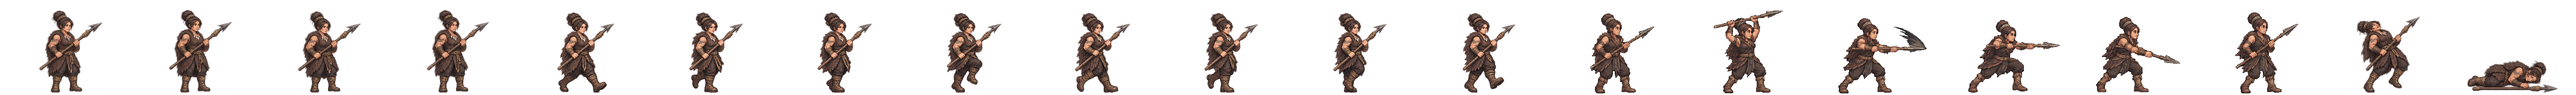
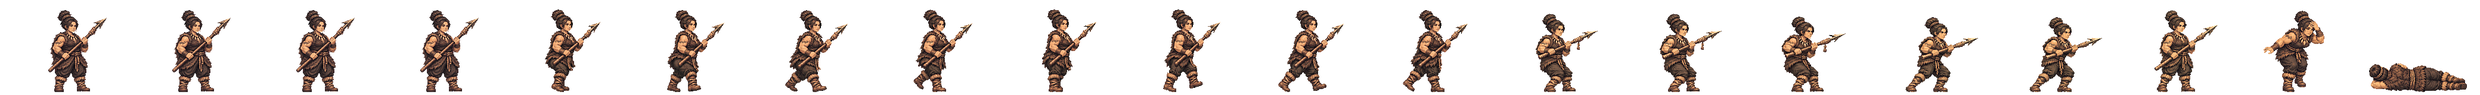
우시산 고래 여왕 새 전투 띠를 게임에 넣음(서기·걷기·미늘 작살 찌르기 여덟 칸·쓰러짐·틀어 올린 머리 다잡기)
우람한(sturdy) 뼈대 둘째 장수. 서기 발 가운데가 뿌리에서 +16px 라는 검사 경고가 있다(사냥꾼과 같은 꼴).

Claude-Session: https://claude.ai/code/session_01TRiuN7s6aDfSnaHxrkctmU

Changed region(s): [[0.0, 0.125, 1.0, 0.9688]]

diff --git a/src/realm/data/spritePx.ts b/src/realm/data/spritePx.ts
@@ -1,3 +1,3 @@
 /** public/realm/anim-px/manifest.json 의 사본 — tools/sprite-normalize.mjs 가 만든다 (손으로 고치지 말 것). 칸 [가로, 세로] · feet = 발 줄(칸 위에서 y) · bodyPx = 서 있는 몸 키 */
 import { expandManifest } from './sprite-manifest.ts'
-export const SPRITE_PX: Readonly<Record<string, { readonly cell: readonly [number, number]; readonly feet: number; readonly bodyPx: number; readonly kind: 'general' | 'soldier' | 'folk' | 'crowd'; readonly cells: number }>> = expandManifest<{ readonly cell: readonly [number, number]; readonly feet: number; readonly bodyPx: number; readonly kind: 'general' | 'soldier' | 'folk' | 'crowd'; readonly cells: number }>([{"cell":[166,128],"feet":126,"bodyPx":124,"kind":"soldier","cells":20},{"cell":[116,128],"feet":126,"bodyPx":117,"kind":"soldier","cells":20},{"cell":[127,128],"feet":126,"bodyPx":116,"kind":"soldier","cells":20},{"cell":[269,128],"feet":126,"bodyPx":126,"kind":"soldier","cells":20},{"cell":[503,128],"feet":126,"bodyPx":127,"kind":"soldier","cells":20},{"cell":[614,128],"feet":126,"bodyPx":126,"kind":"soldier","cells":20},{"cell":[200,160],"feet":156,"bodyPx":138,"kind":"general","cells":20},{"cell":[208,160],"feet":155,"bodyPx":138,"kind":"general","cells":20},{"cell":[208,160],"feet":154,"bodyPx":138,"kind":"general","cells":20},{"cell":[304,160],"feet":155,"bodyPx":135,"kind":"general","cells":20},{"cell":[224,160],"feet":156,"bodyPx":139,"kind":"general","cells":20},{"cell":[184,160],"feet":156,"bodyPx":138,"kind":"general","cells":20},{"cell":[208,160],"feet":154,"bodyPx":136,"kind":"general","cells":20},{"cell":[240,160],"feet":156,"bodyPx":138,"kind":"general","cells":20},{"cell":[232,160],"feet":156,"bodyPx":138,"kind":"general","cells":20},{"cell":[208,160],"feet":156,"bodyPx":138,"kind":"general","cells":20},{"cell":[168,160],"feet":156,"bodyPx":138,"kind":"general","cells":20},{"cell":[192,160],"feet":156,"bodyPx":138,"kind":"general","cells":20},{"cell":[168,160],"feet":156,"bodyPx":124,"kind":"general","cells":20},{"cell":[216,160],"feet":156,"bodyPx":130,"kind":"general","cells":20},{"cell":[200,160],"feet":156,"bodyPx":116,"kind":"general","cells":20},{"cell":[200,160],"feet":156,"bodyPx":135,"kind":"general","cells":20},{"cell":[280,160],"feet":156,"bodyPx":138,"kind":"general","cells":20},{"cell":[232,160],"feet":155,"bodyPx":138,"kind":"general","cells":20},{"cell":[232,160],"feet":156,"bodyPx":134,"kind":"general","cells":20},{"cell":[144,160],"feet":156,"bodyPx":70,"kind":"general","cells":20},{"cell":[208,160],"feet":156,"bodyPx":70,"kind":"general","cells":20},{"cell":[192,160],"feet":156,"bodyPx":70,"kind":"general","cells":20},{"cell":[240,160],"feet":155,"bodyPx":138,"kind":"general","cells":20},{"cell":[160,160],"feet":156,"bodyPx":135,"kind":"general","cells":20},{"cell":[192,160],"feet":156,"bodyPx":128,"kind":"general","cells":20},{"cell":[224,160],"feet":155,"bodyPx":138,"kind":"general","cells":20},{"cell":[232,160],"feet":156,"bodyPx":139,"kind":"general","cells":20},{"cell":[216,160],"feet":156,"bodyPx":138,"kind":"general","cells":20},{"cell":[208,160],"feet":156,"bodyPx":134,"kind":"general","cells":20},{"cell":[176,160],"feet":156,"bodyPx":130,"kind":"general","cells":20},{"cell":[248,160],"feet":156,"bodyPx":138,"kind":"general","cells":20},{"cell":[248,160],"feet":155,"bodyPx":138,"kind":"general","cells":20},{"cell":[192,160],"feet":155,"bodyPx":138,"kind":"general","cells":20},{"cell":[192,160],"feet":156,"bodyPx":124,"kind":"general","cells":20},{"cell":[208,160],"feet":154,"bodyPx":131,"kind":"general","cells":20},{"cell":[256,160],"feet":156,"bodyPx":138,"kind":"general","cells":20},{"cell":[232,160],"feet":156,"bodyPx":73,"kind":"general","cells":20},{"cell":[256,160],"feet":155,"bodyPx":138,"kind":"general","cells":20},{"cell":[264,160],"feet":156,"bodyPx":138,"kind":"general","cells":20},{"cell":[224,160],"feet":156,"bodyPx":138,"kind":"general","cells":20},{"cell":[224,160],"feet":156,"bodyPx":128,"kind":"general","cells":20},{"cell":[176,160],"feet":156,"bodyPx":129,"kind":"general","cells":20},{"cell":[208,160],"feet":154,"bodyPx":139,"kind":"general","cells":20},{"cell":[208,160],"feet":156,"bodyPx":132,"kind":"general","cells":20},{"cell":[216,160],"feet":155,"bodyPx":138,"kind":"general","cells":20},{"cell":[184,160],"feet":156,"bodyPx":122,"kind":"general","cells":20},{"cell":[176,160],"feet":156,"bodyPx":138,"kind":"general","cells":20},{"cell":[280,160],"feet":155,"bodyPx":133,"kind":"general","cells":20},{"cell":[176,160],"feet":156,"bodyPx":70,"kind":"general","cells":20},{"cell":[186,128],"feet":126,"bodyPx":127,"kind":"soldier","cells":20},{"cell":[298,128],"feet":126,"bodyPx":126,"kind":"soldier","cells":20},{"cell":[82,128],"feet":126,"bodyPx":114,"kind":"folk","cells":8},{"cell":[134,128],"feet":126,"bodyPx":119,"kind":"soldier","cells":20},{"cell":[380,128],"feet":126,"bodyPx":124,"kind":"soldier","cells":20},{"cell":[114,128],"feet":126,"bodyPx":115,"kind":"soldier","cells":20},{"cell":[122,128],"feet":126,"bodyPx":114,"kind":"soldier","cells":20},{"cell":[254,128],"feet":126,"bodyPx":128,"kind":"soldier","cells":20},{"cell":[438,128],"feet":126,"bodyPx":126,"kind":"soldier","cells":20},{"cell":[88,128],"feet":126,"bodyPx":113,"kind":"folk","cells":8},{"cell":[100,128],"feet":126,"bodyPx":115,"kind":"folk","cells":8},{"cell":[108,128],"feet":126,"bodyPx":115,"kind":"folk","cells":8},{"cell":[63,128],"feet":126,"bodyPx":113,"kind":"folk","cells":8},{"cell":[69,96],"feet":96,"bodyPx":96,"kind":"crowd","cells":1},{"cell":[54,96],"feet":96,"bodyPx":96,"kind":"crowd","cells":1},{"cell":[47,96],"feet":96,"bodyPx":96,"kind":"crowd","cells":1},{"cell":[49,96],"feet":96,"bodyPx":96,"kind":"crowd","cells":1},{"cell":[57,96],"feet":96,"bodyPx":96,"kind":"crowd","cells":1},{"cell":[55,96],"feet":96,"bodyPx":96,"kind":"crowd","cells":1},{"cell":[45,96],"feet":96,"bodyPx":96,"kind":"crowd","cells":1},{"cell":[53,96],"feet":96,"bodyPx":96,"kind":"crowd","cells":1},{"cell":[64,96],"feet":96,"bodyPx":96,"kind":"crowd","cells":1},{"cell":[184,160],"feet":156,"bodyPx":124,"kind":"general","cells":20},{"cell":[184,160],"feet":156,"bodyPx":134,"kind":"general","cells":20},{"cell":[224,160],"feet":156,"bodyPx":133,"kind":"general","cells":20},{"cell":[192,160],"feet":156,"bodyPx":135,"kind":"general","cells":20},{"cell":[184,160],"feet":156,"bodyPx":137,"kind":"general","cells":20},{"cell":[216,160],"feet":156,"bodyPx":134,"kind":"general","cells":20},{"cell":[216,160],"feet":156,"bodyPx":132,"kind":"general","cells":20},{"cell":[288,160],"feet":156,"bodyPx":138,"kind":"general","cells":20},{"cell":[192,160],"feet":156,"bodyPx":118,"kind":"general","cells":20},{"cell":[192,160],"feet":156,"bodyPx":134,"kind":"general","cells":20},{"cell":[192,160],"feet":157,"bodyPx":139,"kind":"general","cells":20},{"cell":[184,160],"feet":156,"bodyPx":128,"kind":"general","cells":20},{"cell":[240,160],"feet":156,"bodyPx":128,"kind":"general","cells":20},{"cell":[184,160],"feet":156,"bodyPx":132,"kind":"general","cells":20},{"cell":[208,160],"feet":156,"bodyPx":123,"kind":"general","cells":20},{"cell":[208,160],"feet":154,"bodyPx":137,"kind":"general","cells":20},{"cell":[176,160],"feet":156,"bodyPx":116,"kind":"general","cells":20},{"cell":[272,160],"feet":156,"bodyPx":138,"kind":"general","cells":20},{"cell":[176,160],"feet":156,"bodyPx":122,"kind":"general","cells":20},{"cell":[232,160],"feet":156,"bodyPx":127,"kind":"general","cells":20},{"cell":[176,160],"feet":156,"bodyPx":137,"kind":"general","cells":20},{"cell":[184,160],"feet":156,"bodyPx":133,"kind":"general","cells":20}],[["axe",0],["bandit-chief",1],["bandit-club",2],["boat",3],["bow",4],["crossbow",5],["gen-adogan",6],["gen-alpyeong",7],["gen-ara",8],["gen-areum",8],["gen-aryeong",9],["gen-bakdal",6],["gen-baram",10],["gen-bdanbi",11],["gen-beom",12],["gen-beombal",11],["gen-beomi",13],["gen-bira",14],["gen-biryu",15],["gen-budeul",16],["gen-byeol",17],["gen-daemusin",18],["gen-daeso",19],["gen-dallae2",11],["gen-dalli",11],["gen-damul",20],["gen-danbi",15],["gen-dangung",17],["gen-darae",21],["gen-dokmudeom",7],["gen-duman",22],["gen-eomni",23],["gen-eureum",24],["gen-g-bow",25],["gen-g-spear",26],["gen-g-sword",27],["gen-gaennae",6],["gen-gamsil",28],["gen-gaon",29],["gen-geota",15],["gen-geumbawi",11],["gen-geumha",30],["gen-goeun",15],["gen-gom",31],["gen-gomok",15],["gen-gureum",28],["gen-guryema",17],["gen-gwaeyu",14],["gen-haebi",8],["gen-haedal",6],["gen-haesol",32],["gen-halla",7],["gen-heo",8],["gen-hneoul",11],["gen-hogong",33],["gen-hojin",15],["gen-horselord",34],["gen-hwalmi",35],["gen-hyeokgeose",17],["gen-hyeopbo",6],["gen-irang",15],["gen-jibaekho",36],["gen-jinha",37],["gen-jita",38],["gen-jumong",39],["gen-keundol",7],["gen-maehwa",40],["gen-maenun",17],["gen-malgalgi",41],["gen-mari",13],["gen-maro",36],["gen-maryeo",15],["gen-mdallae",32],["gen-mir",6],["gen-mount",42],["gen-mulbeom",43],["gen-mulsae",33],["gen-musoe",33],["gen-noeul",8],["gen-nuri",44],["gen-ocheongan",45],["gen-odi",37],["gen-odogan",6],["gen-ogan",17],["gen-oi",46],["gen-olddaeso",24],["gen-onjo",47],["gen-pidogan",15],["gen-sagong",48],["gen-sdallae",6],["gen-sincheongan",33],["gen-singwigan",33],["gen-sinneoul",8],["gen-sobeol",23],["gen-soebi",6],["gen-soebo",49],["gen-soenun",36],["gen-sogeumbi",50],["gen-songbi",45],["gen-songyang",51],["gen-sori",52],["gen-soseono",53],["gen-suro",17],["gen-tahae",6],["gen-tneoul",45],["gen-w-bow",25],["gen-w-spear",54],["gen-waechief",15],["gen-wan",33],["gen-yeodogan",15],["gen-yucheongan",15],["gen-yusugan",36],["horse",55],["marine",56],["migrant",57],["militia",58],["pike",59],["pirate-captain",60],["pirate-sword",61],["shield",62],["spear",63],["villager-builder",64],["villager-farmer",65],["villager-porter",66],["villager-woman",67],["crowd-b1",68],["crowd-b2",69],["crowd-b3",70],["crowd-b4",71],["crowd-b5",72],["crowd-b6",73],["crowd-f1",68],["crowd-f2",73],["crowd-f3",74],["crowd-f4",75],["crowd-f5",68],["crowd-f6",76],["gen-dalbit",15],["gen-base-g-07-drunk-warrior",17],["gen-base-g-40-anya-adan",15],["gen-base-w-13-young-archer",8],["gen-base-g-03-sea-trader",13],["gen-base-w-10-pirate-captain",48],["gen-base-w-64-miri-dallae",48],["gen-base-g-41-goja-bau",13],["gen-base-g-42-dokro-garam",44],["gen-base-g-09-farmer-conscript",33],["gen-base-w-02-goguryeo-lady",33],["gen-base-w-17-mahan-pearl-diver",8],["gen-base-g-17-saro-isageum",49],["gen-base-g-18-daegaya-king",77],["gen-base-g-35-dabeol-dalgu",15],["gen-base-g-19-sabeol-veteran",33],["gen-base-w-23-usisan-whale-queen",33],["gen-base-g-36-gammun-gamdol",45],["gen-base-g-20-samul-sea-lord",41],["gen-base-g-37-eumjeup-jeup",11],["gen-base-g-38-chopal-palmae",17],["gen-base-w-75-daegaya-soemoe",17],["gen-base-g-45-dabeol-deulgae",11],["gen-base-g-04-jinhan-giant",15],["gen-base-g-08-veteran",15],["gen-base-w-18-jinhan-salt-widow",15],["gen-base-w-12-court-dancer",78],["gen-base-w-83-gyeonji-beodeul",79],["gen-base-w-05-baekje-queen",80],["gen-base-w-21-baekje-court-dancer",11],["gen-base-g-01-master-smith",81],["gen-base-g-93-jomun-solgae",35],["gen-base-g-57-bihwa-neup",13],["gen-base-w-72-eumjeup-beol",15],["gen-base-w-102-garak-dana",33],["gen-base-g-68-baekje-onnuri",15],["gen-base-w-27-mokji-jinha",6],["gen-base-g-22-ungcheon-gomnae",6],["gen-base-g-23-sangdang-soedal",15],["gen-base-g-24-wansan-onsan",6],["gen-base-g-25-balla-keunmoe",33],["gen-base-g-61-heomcheuk-bawi",33],["gen-base-g-88-wander-soeul",45],["gen-base-w-14-feast-spy",6],["gen-base-g-12-silla-youth",82],["gen-base-w-08-mahan-warrior",8],["gen-base-g-62-beonye-hanul",13],["gen-base-g-63-heomcheuk-beogeum",15],["gen-base-g-84-wander-seoneul",15],["gen-base-w-50-siljik-mulga",33],["gen-base-g-46-uga-nureongso",33],["gen-base-w-80-usan-gangchi",13],["gen-base-g-47-guga-sanyanggae",33],["gen-base-w-76-gampyeong-baetsagong",36],["gen-base-g-05-mahan-chieftain",83],["gen-base-g-58-usan-uhae",15],["gen-base-g-27-maek-maekdol",15],["gen-base-w-53-hwanna-gabi",16],["gen-base-w-29-golpo-janmul",36],["gen-base-g-53-baekje-haeru",6],["gen-base-w-71-yeonna-neoul",13],["gen-base-w-79-yangmaek-solmae",33],["gen-base-w-34-chopal-deulme",44],["gen-base-g-44-maga-malgup",84],["gen-base-w-31-dabeol-dalbit",48],["gen-base-g-51-biryuna-mulgyeol",45],["gen-base-g-48-gwanna-musoe",15],["gen-base-g-32-uga-sodu",14],["gen-base-g-49-goguryeo-sona",85],["gen-base-g-30-gwanna-soemoe",45],["gen-base-g-52-tamna-oreum",11],["gen-base-g-29-yeonna-myeongsol",39],["gen-base-w-56-dongokjeo-sogeum",86],["gen-base-g-54-mokji-mahan",14],["gen-base-g-33-jeoga-metdol",17],["gen-base-w-36-baekje-maena",17],["gen-base-w-38-sangdang-bulmae",6],["gen-base-w-39-gosaburi-galmae",87],["gen-base-w-40-mujin-munui",49],["gen-base-w-41-hwanna-beodeul",88],["gen-base-w-43-uga-nuri",41],["gen-base-w-45-tamna-oreumbi",11],["gen-base-g-60-golbeol-golgae",11],["gen-base-g-61-apdok-ap",33],["gen-base-g-62-gammun-gamnamu",6],["gen-base-g-63-chopal-yeoul",36],["gen-base-g-64-michuhol-sogeumkkun",13],["gen-base-g-65-sangdang-soemangchi",45],["gen-base-g-66-geonma-malbalgup",89],["gen-base-g-67-gosaburi-buri",90],["gen-base-g-68-mujin-bitgoeul",11],["gen-base-g-69-goryong-yong",45],["gen-base-g-70-siljik-pado",13],["gen-base-w-81-byeokjin-byeolbit",14],["gen-base-w-46-geonma-maru",36],["gen-base-w-48-mujin-mudeung",13],["gen-base-g-26-gampyeong-gaetbeol",14],["gen-base-g-60-eupcha-hangyeol",91],["gen-base-g-15-shaman-man",33],["gen-base-g-85-wander-ure",36],["gen-base-g-43-hwanna-amnok",15],["gen-base-g-50-bullae-gwaha",80],["gen-base-g-55-saro-bakdal",15],["gen-base-g-56-haseulla-gwahama",6],["gen-base-w-06-buyeo-huntress",92],["gen-base-w-22-dongye-tiger-huntress",8],["gen-base-w-25-bihwa-priestess",33],["gen-base-w-24-apdok-queen",11],["gen-base-w-61-iseo-sinae",15],["gen-base-w-26-iseo-tomboy-general",44],["gen-base-g-59-yangmaek-maekson",93],["gen-aw1-haebi",45],["gen-aw1-soseono",94],["gen-aw1-gamsil",11],["gen-aw1-mir",52],["gen-aw1-dangung",6],["gen-aw1-ara",45],["gen-aw1-jumong",95],["gen-aw1-onjo",96],["gen-aw1-base-w-83-gyeonji-beodeul",17],["gen-aw1-heo",44],["gen-aw1-base-g-38-chopal-palmae",6],["gen-aw1-base-w-25-bihwa-priestess",78],["gen-aw1-sori",16],["gen-aw1-gomok",6],["gen-aw1-irang",17],["gen-aw1-budeul",16],["gen-aw1-gom",13],["gen-aw1-sdallae",6],["gen-aw1-base-w-13-young-archer",6],["gen-aw1-base-w-36-baekje-maena",97],["gen-aw1-base-g-09-farmer-conscript",44],["gen-aw1-base-w-02-goguryeo-lady",98],["gen-aw1-haedal",11],["gen-aw1-hogong",6],["gen-aw1-maehwa",52],["gen-aw1-base-w-06-buyeo-huntress",14],["gen-aw1-base-w-08-mahan-warrior",45],["gen-aw1-base-w-29-golpo-janmul",45],["gen-aw1-base-w-31-dabeol-dalbit",17],["gen-aw1-base-w-38-sangdang-bulmae",16],["gen-aw1-bira",33],["gen-aw1-base-w-53-hwanna-gabi",16],["gen-aw1-base-w-56-dongokjeo-sogeum",52],["gen-aw1-base-w-72-eumjeup-beol",17],["gen-aw1-bdanbi",16],["gen-aw1-beom",11],["gen-aw1-beombal",11],["gen-aw1-byeol",17],["gen-aw1-dalli",52],["gen-aw1-malgalgi",36],["gen-aw1-sincheongan",33]])
+export const SPRITE_PX: Readonly<Record<string, { readonly cell: readonly [number, number]; readonly feet: number; readonly bodyPx: number; readonly kind: 'general' | 'soldier' | 'folk' | 'crowd'; readonly cells: number }>> = expandManifest<{ readonly cell: readonly [number, number]; readonly feet: number; readonly bodyPx: number; readonly kind: 'general' | 'soldier' | 'folk' | 'crowd'; readonly cells: number }>([{"cell":[166,128],"feet":126,"bodyPx":124,"kind":"soldier","cells":20},{"cell":[116,128],"feet":126,"bodyPx":117,"kind":"soldier","cells":20},{"cell":[127,128],"feet":126,"bodyPx":116,"kind":"soldier","cells":20},{"cell":[269,128],"feet":126,"bodyPx":126,"kind":"soldier","cells":20},{"cell":[503,128],"feet":126,"bodyPx":127,"kind":"soldier","cells":20},{"cell":[614,128],"feet":126,"bodyPx":126,"kind":"soldier","cells":20},{"cell":[200,160],"feet":156,"bodyPx":138,"kind":"general","cells":20},{"cell":[208,160],"feet":155,"bodyPx":138,"kind":"general","cells":20},{"cell":[208,160],"feet":154,"bodyPx":138,"kind":"general","cells":20},{"cell":[304,160],"feet":155,"bodyPx":135,"kind":"general","cells":20},{"cell":[224,160],"feet":156,"bodyPx":139,"kind":"general","cells":20},{"cell":[184,160],"feet":156,"bodyPx":138,"kind":"general","cells":20},{"cell":[208,160],"feet":154,"bodyPx":136,"kind":"general","cells":20},{"cell":[240,160],"feet":156,"bodyPx":138,"kind":"general","cells":20},{"cell":[232,160],"feet":156,"bodyPx":138,"kind":"general","cells":20},{"cell":[208,160],"feet":156,"bodyPx":138,"kind":"general","cells":20},{"cell":[168,160],"feet":156,"bodyPx":138,"kind":"general","cells":20},{"cell":[192,160],"feet":156,"bodyPx":138,"kind":"general","cells":20},{"cell":[168,160],"feet":156,"bodyPx":124,"kind":"general","cells":20},{"cell":[216,160],"feet":156,"bodyPx":130,"kind":"general","cells":20},{"cell":[200,160],"feet":156,"bodyPx":116,"kind":"general","cells":20},{"cell":[200,160],"feet":156,"bodyPx":135,"kind":"general","cells":20},{"cell":[280,160],"feet":156,"bodyPx":138,"kind":"general","cells":20},{"cell":[232,160],"feet":155,"bodyPx":138,"kind":"general","cells":20},{"cell":[232,160],"feet":156,"bodyPx":134,"kind":"general","cells":20},{"cell":[144,160],"feet":156,"bodyPx":70,"kind":"general","cells":20},{"cell":[208,160],"feet":156,"bodyPx":70,"kind":"general","cells":20},{"cell":[192,160],"feet":156,"bodyPx":70,"kind":"general","cells":20},{"cell":[240,160],"feet":155,"bodyPx":138,"kind":"general","cells":20},{"cell":[160,160],"feet":156,"bodyPx":135,"kind":"general","cells":20},{"cell":[192,160],"feet":156,"bodyPx":128,"kind":"general","cells":20},{"cell":[224,160],"feet":155,"bodyPx":138,"kind":"general","cells":20},{"cell":[232,160],"feet":156,"bodyPx":139,"kind":"general","cells":20},{"cell":[216,160],"feet":156,"bodyPx":138,"kind":"general","cells":20},{"cell":[208,160],"feet":156,"bodyPx":134,"kind":"general","cells":20},{"cell":[176,160],"feet":156,"bodyPx":130,"kind":"general","cells":20},{"cell":[248,160],"feet":156,"bodyPx":138,"kind":"general","cells":20},{"cell":[248,160],"feet":155,"bodyPx":138,"kind":"general","cells":20},{"cell":[192,160],"feet":155,"bodyPx":138,"kind":"general","cells":20},{"cell":[192,160],"feet":156,"bodyPx":124,"kind":"general","cells":20},{"cell":[208,160],"feet":154,"bodyPx":131,"kind":"general","cells":20},{"cell":[256,160],"feet":156,"bodyPx":138,"kind":"general","cells":20},{"cell":[232,160],"feet":156,"bodyPx":73,"kind":"general","cells":20},{"cell":[256,160],"feet":155,"bodyPx":138,"kind":"general","cells":20},{"cell":[264,160],"feet":156,"bodyPx":138,"kind":"general","cells":20},{"cell":[224,160],"feet":156,"bodyPx":138,"kind":"general","cells":20},{"cell":[224,160],"feet":156,"bodyPx":128,"kind":"general","cells":20},{"cell":[176,160],"feet":156,"bodyPx":129,"kind":"general","cells":20},{"cell":[208,160],"feet":154,"bodyPx":139,"kind":"general","cells":20},{"cell":[208,160],"feet":156,"bodyPx":132,"kind":"general","cells":20},{"cell":[216,160],"feet":155,"bodyPx":138,"kind":"general","cells":20},{"cell":[184,160],"feet":156,"bodyPx":122,"kind":"general","cells":20},{"cell":[176,160],"feet":156,"bodyPx":138,"kind":"general","cells":20},{"cell":[280,160],"feet":155,"bodyPx":133,"kind":"general","cells":20},{"cell":[176,160],"feet":156,"bodyPx":70,"kind":"general","cells":20},{"cell":[186,128],"feet":126,"bodyPx":127,"kind":"soldier","cells":20},{"cell":[298,128],"feet":126,"bodyPx":126,"kind":"soldier","cells":20},{"cell":[82,128],"feet":126,"bodyPx":114,"kind":"folk","cells":8},{"cell":[134,128],"feet":126,"bodyPx":119,"kind":"soldier","cells":20},{"cell":[380,128],"feet":126,"bodyPx":124,"kind":"soldier","cells":20},{"cell":[114,128],"feet":126,"bodyPx":115,"kind":"soldier","cells":20},{"cell":[122,128],"feet":126,"bodyPx":114,"kind":"soldier","cells":20},{"cell":[254,128],"feet":126,"bodyPx":128,"kind":"soldier","cells":20},{"cell":[438,128],"feet":126,"bodyPx":126,"kind":"soldier","cells":20},{"cell":[88,128],"feet":126,"bodyPx":113,"kind":"folk","cells":8},{"cell":[100,128],"feet":126,"bodyPx":115,"kind":"folk","cells":8},{"cell":[108,128],"feet":126,"bodyPx":115,"kind":"folk","cells":8},{"cell":[63,128],"feet":126,"bodyPx":113,"kind":"folk","cells":8},{"cell":[69,96],"feet":96,"bodyPx":96,"kind":"crowd","cells":1},{"cell":[54,96],"feet":96,"bodyPx":96,"kind":"crowd","cells":1},{"cell":[47,96],"feet":96,"bodyPx":96,"kind":"crowd","cells":1},{"cell":[49,96],"feet":96,"bodyPx":96,"kind":"crowd","cells":1},{"cell":[57,96],"feet":96,"bodyPx":96,"kind":"crowd","cells":1},{"cell":[55,96],"feet":96,"bodyPx":96,"kind":"crowd","cells":1},{"cell":[45,96],"feet":96,"bodyPx":96,"kind":"crowd","cells":1},{"cell":[53,96],"feet":96,"bodyPx":96,"kind":"crowd","cells":1},{"cell":[64,96],"feet":96,"bodyPx":96,"kind":"crowd","cells":1},{"cell":[184,160],"feet":156,"bodyPx":124,"kind":"general","cells":20},{"cell":[184,160],"feet":156,"bodyPx":134,"kind":"general","cells":20},{"cell":[224,160],"feet":156,"bodyPx":133,"kind":"general","cells":20},{"cell":[192,160],"feet":156,"bodyPx":135,"kind":"general","cells":20},{"cell":[184,160],"feet":156,"bodyPx":137,"kind":"general","cells":20},{"cell":[216,160],"feet":156,"bodyPx":134,"kind":"general","cells":20},{"cell":[216,160],"feet":156,"bodyPx":132,"kind":"general","cells":20},{"cell":[288,160],"feet":156,"bodyPx":138,"kind":"general","cells":20},{"cell":[192,160],"feet":156,"bodyPx":118,"kind":"general","cells":20},{"cell":[192,160],"feet":156,"bodyPx":134,"kind":"general","cells":20},{"cell":[192,160],"feet":157,"bodyPx":139,"kind":"general","cells":20},{"cell":[184,160],"feet":156,"bodyPx":128,"kind":"general","cells":20},{"cell":[240,160],"feet":156,"bodyPx":128,"kind":"general","cells":20},{"cell":[184,160],"feet":156,"bodyPx":132,"kind":"general","cells":20},{"cell":[208,160],"feet":156,"bodyPx":123,"kind":"general","cells":20},{"cell":[208,160],"feet":154,"bodyPx":137,"kind":"general","cells":20},{"cell":[176,160],"feet":156,"bodyPx":116,"kind":"general","cells":20},{"cell":[272,160],"feet":156,"bodyPx":138,"kind":"general","cells":20},{"cell":[176,160],"feet":156,"bodyPx":122,"kind":"general","cells":20},{"cell":[232,160],"feet":156,"bodyPx":127,"kind":"general","cells":20},{"cell":[176,160],"feet":156,"bodyPx":137,"kind":"general","cells":20},{"cell":[184,160],"feet":156,"bodyPx":133,"kind":"general","cells":20}],[["axe",0],["bandit-chief",1],["bandit-club",2],["boat",3],["bow",4],["crossbow",5],["gen-adogan",6],["gen-alpyeong",7],["gen-ara",8],["gen-areum",8],["gen-aryeong",9],["gen-bakdal",6],["gen-baram",10],["gen-bdanbi",11],["gen-beom",12],["gen-beombal",11],["gen-beomi",13],["gen-bira",14],["gen-biryu",15],["gen-budeul",16],["gen-byeol",17],["gen-daemusin",18],["gen-daeso",19],["gen-dallae2",11],["gen-dalli",11],["gen-damul",20],["gen-danbi",15],["gen-dangung",17],["gen-darae",21],["gen-dokmudeom",7],["gen-duman",22],["gen-eomni",23],["gen-eureum",24],["gen-g-bow",25],["gen-g-spear",26],["gen-g-sword",27],["gen-gaennae",6],["gen-gamsil",28],["gen-gaon",29],["gen-geota",15],["gen-geumbawi",11],["gen-geumha",30],["gen-goeun",15],["gen-gom",31],["gen-gomok",15],["gen-gureum",28],["gen-guryema",17],["gen-gwaeyu",14],["gen-haebi",8],["gen-haedal",6],["gen-haesol",32],["gen-halla",7],["gen-heo",8],["gen-hneoul",11],["gen-hogong",33],["gen-hojin",15],["gen-horselord",34],["gen-hwalmi",35],["gen-hyeokgeose",17],["gen-hyeopbo",6],["gen-irang",15],["gen-jibaekho",36],["gen-jinha",37],["gen-jita",38],["gen-jumong",39],["gen-keundol",7],["gen-maehwa",40],["gen-maenun",17],["gen-malgalgi",41],["gen-mari",13],["gen-maro",36],["gen-maryeo",15],["gen-mdallae",32],["gen-mir",6],["gen-mount",42],["gen-mulbeom",43],["gen-mulsae",33],["gen-musoe",33],["gen-noeul",8],["gen-nuri",44],["gen-ocheongan",45],["gen-odi",37],["gen-odogan",6],["gen-ogan",17],["gen-oi",46],["gen-olddaeso",24],["gen-onjo",47],["gen-pidogan",15],["gen-sagong",48],["gen-sdallae",6],["gen-sincheongan",33],["gen-singwigan",33],["gen-sinneoul",8],["gen-sobeol",23],["gen-soebi",6],["gen-soebo",49],["gen-soenun",36],["gen-sogeumbi",50],["gen-songbi",45],["gen-songyang",51],["gen-sori",52],["gen-soseono",53],["gen-suro",17],["gen-tahae",6],["gen-tneoul",45],["gen-w-bow",25],["gen-w-spear",54],["gen-waechief",15],["gen-wan",33],["gen-yeodogan",15],["gen-yucheongan",15],["gen-yusugan",36],["horse",55],["marine",56],["migrant",57],["militia",58],["pike",59],["pirate-captain",60],["pirate-sword",61],["shield",62],["spear",63],["villager-builder",64],["villager-farmer",65],["villager-porter",66],["villager-woman",67],["crowd-b1",68],["crowd-b2",69],["crowd-b3",70],["crowd-b4",71],["crowd-b5",72],["crowd-b6",73],["crowd-f1",68],["crowd-f2",73],["crowd-f3",74],["crowd-f4",75],["crowd-f5",68],["crowd-f6",76],["gen-dalbit",15],["gen-base-g-07-drunk-warrior",17],["gen-base-g-40-anya-adan",15],["gen-base-w-13-young-archer",8],["gen-base-g-03-sea-trader",13],["gen-base-w-10-pirate-captain",48],["gen-base-w-64-miri-dallae",48],["gen-base-g-41-goja-bau",13],["gen-base-g-42-dokro-garam",44],["gen-base-g-09-farmer-conscript",33],["gen-base-w-02-goguryeo-lady",33],["gen-base-w-17-mahan-pearl-diver",8],["gen-base-g-17-saro-isageum",49],["gen-base-g-18-daegaya-king",77],["gen-base-g-35-dabeol-dalgu",15],["gen-base-g-19-sabeol-veteran",33],["gen-base-w-23-usisan-whale-queen",8],["gen-base-g-36-gammun-gamdol",45],["gen-base-g-20-samul-sea-lord",41],["gen-base-g-37-eumjeup-jeup",11],["gen-base-g-38-chopal-palmae",17],["gen-base-w-75-daegaya-soemoe",17],["gen-base-g-45-dabeol-deulgae",11],["gen-base-g-04-jinhan-giant",15],["gen-base-g-08-veteran",15],["gen-base-w-18-jinhan-salt-widow",15],["gen-base-w-12-court-dancer",78],["gen-base-w-83-gyeonji-beodeul",79],["gen-base-w-05-baekje-queen",80],["gen-base-w-21-baekje-court-dancer",11],["gen-base-g-01-master-smith",81],["gen-base-g-93-jomun-solgae",35],["gen-base-g-57-bihwa-neup",13],["gen-base-w-72-eumjeup-beol",15],["gen-base-w-102-garak-dana",33],["gen-base-g-68-baekje-onnuri",15],["gen-base-w-27-mokji-jinha",6],["gen-base-g-22-ungcheon-gomnae",6],["gen-base-g-23-sangdang-soedal",15],["gen-base-g-24-wansan-onsan",6],["gen-base-g-25-balla-keunmoe",33],["gen-base-g-61-heomcheuk-bawi",33],["gen-base-g-88-wander-soeul",45],["gen-base-w-14-feast-spy",6],["gen-base-g-12-silla-youth",82],["gen-base-w-08-mahan-warrior",8],["gen-base-g-62-beonye-hanul",13],["gen-base-g-63-heomcheuk-beogeum",15],["gen-base-g-84-wander-seoneul",15],["gen-base-w-50-siljik-mulga",33],["gen-base-g-46-uga-nureongso",33],["gen-base-w-80-usan-gangchi",13],["gen-base-g-47-guga-sanyanggae",33],["gen-base-w-76-gampyeong-baetsagong",36],["gen-base-g-05-mahan-chieftain",83],["gen-base-g-58-usan-uhae",15],["gen-base-g-27-maek-maekdol",15],["gen-base-w-53-hwanna-gabi",16],["gen-base-w-29-golpo-janmul",36],["gen-base-g-53-baekje-haeru",6],["gen-base-w-71-yeonna-neoul",13],["gen-base-w-79-yangmaek-solmae",33],["gen-base-w-34-chopal-deulme",44],["gen-base-g-44-maga-malgup",84],["gen-base-w-31-dabeol-dalbit",48],["gen-base-g-51-biryuna-mulgyeol",45],["gen-base-g-48-gwanna-musoe",15],["gen-base-g-32-uga-sodu",14],["gen-base-g-49-goguryeo-sona",85],["gen-base-g-30-gwanna-soemoe",45],["gen-base-g-52-tamna-oreum",11],["gen-base-g-29-yeonna-myeongsol",39],["gen-base-w-56-dongokjeo-sogeum",86],["gen-base-g-54-mokji-mahan",14],["gen-base-g-33-jeoga-metdol",17],["gen-base-w-36-baekje-maena",17],["gen-base-w-38-sangdang-bulmae",6],["gen-base-w-39-gosaburi-galmae",87],["gen-base-w-40-mujin-munui",49],["gen-base-w-41-hwanna-beodeul",88],["gen-base-w-43-uga-nuri",41],["gen-base-w-45-tamna-oreumbi",11],["gen-base-g-60-golbeol-golgae",11],["gen-base-g-61-apdok-ap",33],["gen-base-g-62-gammun-gamnamu",6],["gen-base-g-63-chopal-yeoul",36],["gen-base-g-64-michuhol-sogeumkkun",13],["gen-base-g-65-sangdang-soemangchi",45],["gen-base-g-66-geonma-malbalgup",89],["gen-base-g-67-gosaburi-buri",90],["gen-base-g-68-mujin-bitgoeul",11],["gen-base-g-69-goryong-yong",45],["gen-base-g-70-siljik-pado",13],["gen-base-w-81-byeokjin-byeolbit",14],["gen-base-w-46-geonma-maru",36],["gen-base-w-48-mujin-mudeung",13],["gen-base-g-26-gampyeong-gaetbeol",14],["gen-base-g-60-eupcha-hangyeol",91],["gen-base-g-15-shaman-man",33],["gen-base-g-85-wander-ure",36],["gen-base-g-43-hwanna-amnok",15],["gen-base-g-50-bullae-gwaha",80],["gen-base-g-55-saro-bakdal",15],["gen-base-g-56-haseulla-gwahama",6],["gen-base-w-06-buyeo-huntress",92],["gen-base-w-22-dongye-tiger-huntress",8],["gen-base-w-25-bihwa-priestess",33],["gen-base-w-24-apdok-queen",11],["gen-base-w-61-iseo-sinae",15],["gen-base-w-26-iseo-tomboy-general",44],["gen-base-g-59-yangmaek-maekson",93],["gen-aw1-haebi",45],["gen-aw1-soseono",94],["gen-aw1-gamsil",11],["gen-aw1-mir",52],["gen-aw1-dangung",6],["gen-aw1-ara",45],["gen-aw1-jumong",95],["gen-aw1-onjo",96],["gen-aw1-base-w-83-gyeonji-beodeul",17],["gen-aw1-heo",44],["gen-aw1-base-g-38-chopal-palmae",6],["gen-aw1-base-w-25-bihwa-priestess",78],["gen-aw1-sori",16],["gen-aw1-gomok",6],["gen-aw1-irang",17],["gen-aw1-budeul",16],["gen-aw1-gom",13],["gen-aw1-sdallae",6],["gen-aw1-base-w-13-young-archer",6],["gen-aw1-base-w-36-baekje-maena",97],["gen-aw1-base-g-09-farmer-conscript",44],["gen-aw1-base-w-02-goguryeo-lady",98],["gen-aw1-haedal",11],["gen-aw1-hogong",6],["gen-aw1-maehwa",52],["gen-aw1-base-w-06-buyeo-huntress",14],["gen-aw1-base-w-08-mahan-warrior",45],["gen-aw1-base-w-29-golpo-janmul",45],["gen-aw1-base-w-31-dabeol-dalbit",17],["gen-aw1-base-w-38-sangdang-bulmae",16],["gen-aw1-bira",33],["gen-aw1-base-w-53-hwanna-gabi",16],["gen-aw1-base-w-56-dongokjeo-sogeum",52],["gen-aw1-base-w-72-eumjeup-beol",17],["gen-aw1-bdanbi",16],["gen-aw1-beom",11],["gen-aw1-beombal",11],["gen-aw1-byeol",17],["gen-aw1-dalli",52],["gen-aw1-malgalgi",36],["gen-aw1-sincheongan",33]])

diff --git a/src/duel/view.ts b/src/duel/view.ts
@@ -100,7 +100,7 @@ const crowdFront = [1, 2, 3, 4, 5, 6].map((i) => img(`realm/duel/crowd/b${i}.png
 const crowdReady = (set: HTMLImageElement[]): boolean => set.every((im) => im.complete && im.naturalWidth > 0)
 const pxMode = cfg.px !== false && params.get('px') !== '0'
 /** 겨루기 전용 옛 띠(duel/sprites) 대신 열전과 같은 도트 띠(anim-px)를 쓰는 장수 — 두 판에서 같은 모습 · 서기 계획·쓰러지는 칸도 같다 (11-23 범 · 매화 · 달빛 · 11-24 해비 · 아룸) */
-const PX_DUEL: ReadonlySet<string> = new Set(['beom', 'maehwa', 'base-w-31-dabeol-dalbit', 'haebi', 'areum', 'base-w-13-young-archer', 'base-w-10-pirate-captain', 'base-w-17-mahan-pearl-diver', 'base-w-06-buyeo-huntress', 'base-w-64-miri-dallae', 'ara', 'base-w-22-dongye-tiger-huntress', 'noeul', 'sagong', 'sinneoul', 'heo', 'base-w-08-mahan-warrior'])
+const PX_DUEL: ReadonlySet<string> = new Set(['beom', 'maehwa', 'base-w-31-dabeol-dalbit', 'haebi', 'areum', 'base-w-13-young-archer', 'base-w-10-pirate-captain', 'base-w-17-mahan-pearl-diver', 'base-w-06-buyeo-huntress', 'base-w-64-miri-dallae', 'ara', 'base-w-22-dongye-tiger-huntress', 'noeul', 'sagong', 'sinneoul', 'heo', 'base-w-08-mahan-warrior', 'base-w-23-usisan-whale-queen'])
 /** 띠 그림 — 기본은 anim-px(도트 규격) 먼저, 없으면 옛 띠로 (img 의 onerror 가 갈아 끼운다) */
 const strip = (s: string): HTMLImageElement => pxMode
   ? DUEL_ATLASES[s] !== undefined && !PX_DUEL.has(s) ? img(`realm/duel/sprites/gen-${s}.png`, `realm/anim-px/gen-${s}.png`)

diff --git a/src/tune/params.ts b/src/tune/params.ts
@@ -1427,6 +1427,7 @@ export const HAEBI_IDLE = {
     sinneoul: { cells: 34, base: [0, 1], hold: 2.4, fall: [18, 20, 21, 19], quirk: [22, 23, 24, 25], quirkTimes: [.3, .32, .4, .28], attack: { cells: [26, 27, 28, 29, 30, 31, 32, 33], times: [.09, .08, .11, .05, .15, .07, .08, .12], hit: 4 }, xGeom: { h: 224, root: 92, foot: 216 } },
     heo: { cells: 34, base: [0, 1], hold: 2.4, fall: [18, 20, 21, 19], quirk: [22, 23, 24, 25], quirkTimes: [.3, .32, .4, .28], attack: { cells: [26, 27, 28, 29, 30, 31, 32, 33], times: [.09, .08, .11, .05, .15, .07, .08, .12], hit: 4 }, xGeom: { h: 224, root: 92, foot: 216 } },
     'base-w-08-mahan-warrior': { cells: 34, base: [0, 1], hold: 2.4, fall: [18, 20, 21, 19], quirk: [22, 23, 24, 25], quirkTimes: [.3, .32, .4, .28], attack: { cells: [26, 27, 28, 29, 30, 31, 32, 33], times: [.09, .08, .11, .05, .15, .07, .08, .12], hit: 4 }, xGeom: { h: 224, root: 92, foot: 216 } },
+    'base-w-23-usisan-whale-queen': { cells: 34, base: [0, 1], hold: 2.4, fall: [18, 20, 21, 19], quirk: [22, 23, 24, 25], quirkTimes: [.3, .32, .4, .28], attack: { cells: [26, 27, 28, 29, 30, 31, 32, 33], times: [.09, .08, .11, .05, .15, .07, .08, .12], hit: 4 }, xGeom: { h: 224, root: 92, foot: 216 } },
   },
 } as const
 export const HAEBI_ANIM = {
